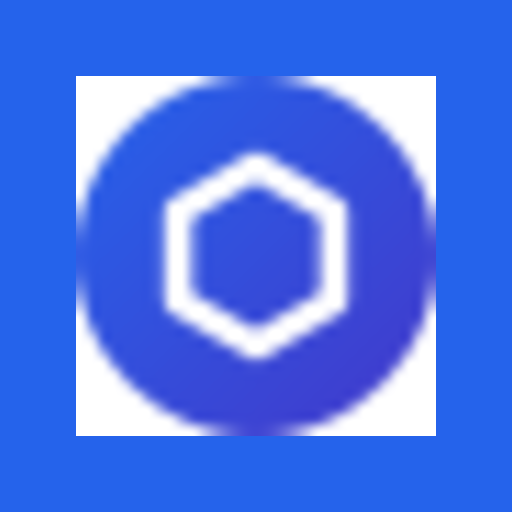
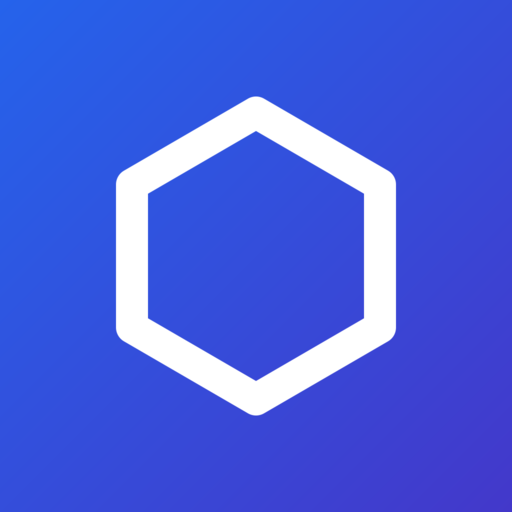
fix(pwa): corregir iconos de app y agregar icono monocromo
- Regenerar iconos 192/512 exactos desde SVG maestros
- Separar iconos any, maskable y monochrome en el manifest
- Quitar favicon.svg como icono de app
- Corregir apple-touch-icon a 180x180 sin transparencia
- Agregar favicon.ico, mask-icon y PNG de 1024
- Incluir scripts de generacion y validacion de iconos

diff --git a/vite.config.ts b/vite.config.ts
@@ -76,7 +76,13 @@ export default defineConfig({
                 // y el Cache Storage de Workbox no varía por cabeceras, lo que provocaría
                 // fuga de datos entre usuarios en un dispositivo compartido.
             },
-            includeAssets: ['favicon.svg', 'apple-touch-icon.png', 'maskable-icon-512x512.png'],
+            includeAssets: [
+                'favicon.svg',
+                'favicon.ico',
+                'apple-touch-icon.png',
+                'mask-icon.svg',
+                'maskable-icon-512x512.png',
+            ],
             // Habilitar SW en modo dev para que el prompt de instalación funcione en localhost
             devOptions: {
                 enabled: true,
@@ -113,12 +119,6 @@ export default defineConfig({
                 ],
                 icons: [
                     {
-                        src: 'favicon.svg',
-                        sizes: 'any',
-                        type: 'image/svg+xml',
-                        purpose: 'any',
-                    },
-                    {
                         src: 'pwa-192x192.png',
                         sizes: '192x192',
                         type: 'image/png',
@@ -135,6 +135,12 @@ export default defineConfig({
                         sizes: '512x512',
                         type: 'image/png',
                         purpose: 'maskable',
+                    },
+                    {
+                        src: 'monochrome-icon-512x512.png',
+                        sizes: '512x512',
+                        type: 'image/png',
+                        purpose: 'monochrome',
                     },
                 ],
                 shortcuts: [

diff --git a/index.html b/index.html
@@ -3,7 +3,9 @@
     <head>
         <meta charset="UTF-8" />
         <link rel="icon" type="image/svg+xml" href="/favicon.svg" />
-        <link rel="apple-touch-icon" href="/apple-touch-icon.png" />
+        <link rel="icon" href="/favicon.ico" sizes="32x32" />
+        <link rel="apple-touch-icon" sizes="180x180" href="/apple-touch-icon.png" />
+        <link rel="mask-icon" href="/mask-icon.svg" color="#2563eb" />
         <meta
             name="viewport"
             content="width=device-width, initial-scale=1.0, viewport-fit=cover, interactive-widget=resizes-content"

diff --git a/README.md b/README.md
@@ -121,6 +121,8 @@ supabase/
 | `npm run format` / `npm run format:check` | Formateo con Prettier |
 | `npm run test` | Tests E2E (Playwright; se auto-skip sin credenciales) |
 | `npm run db:setup` / `npm run db:reset` | Bootstrap del esquema vía CLI de Supabase |
+| `./scripts/generate-icons.sh` | Regenera los iconos PWA/app desde los SVG maestros en `scripts/icons/` |
+| `./scripts/check-icons.sh` | Valida tamaños, transparencia y zona segura de los iconos |
 
 ## ⚠ Aviso y descargo de responsabilidad
 
